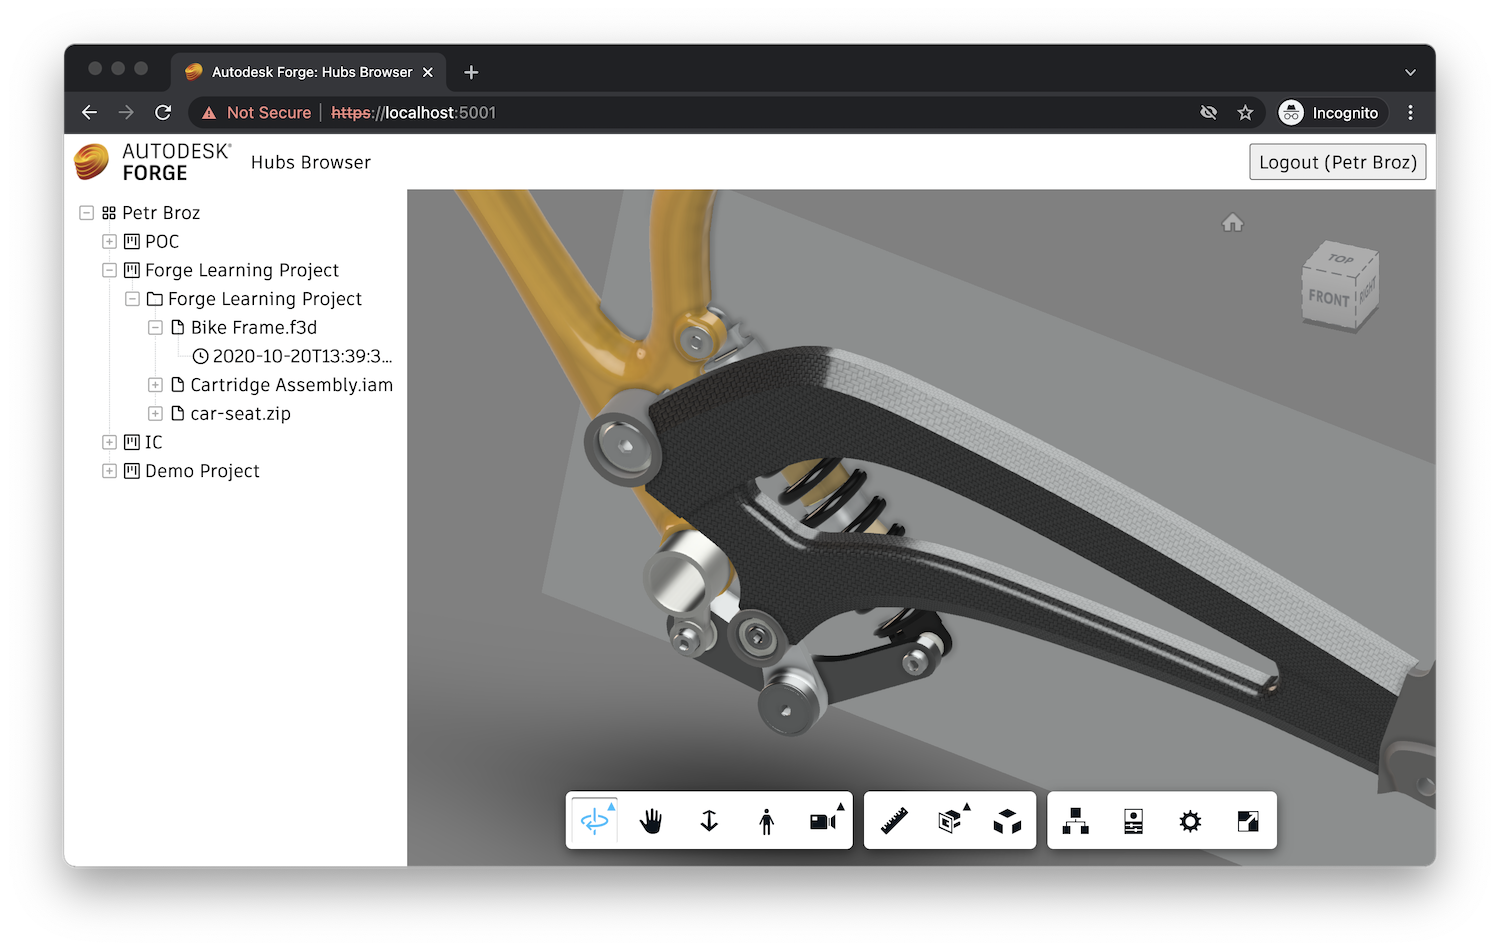
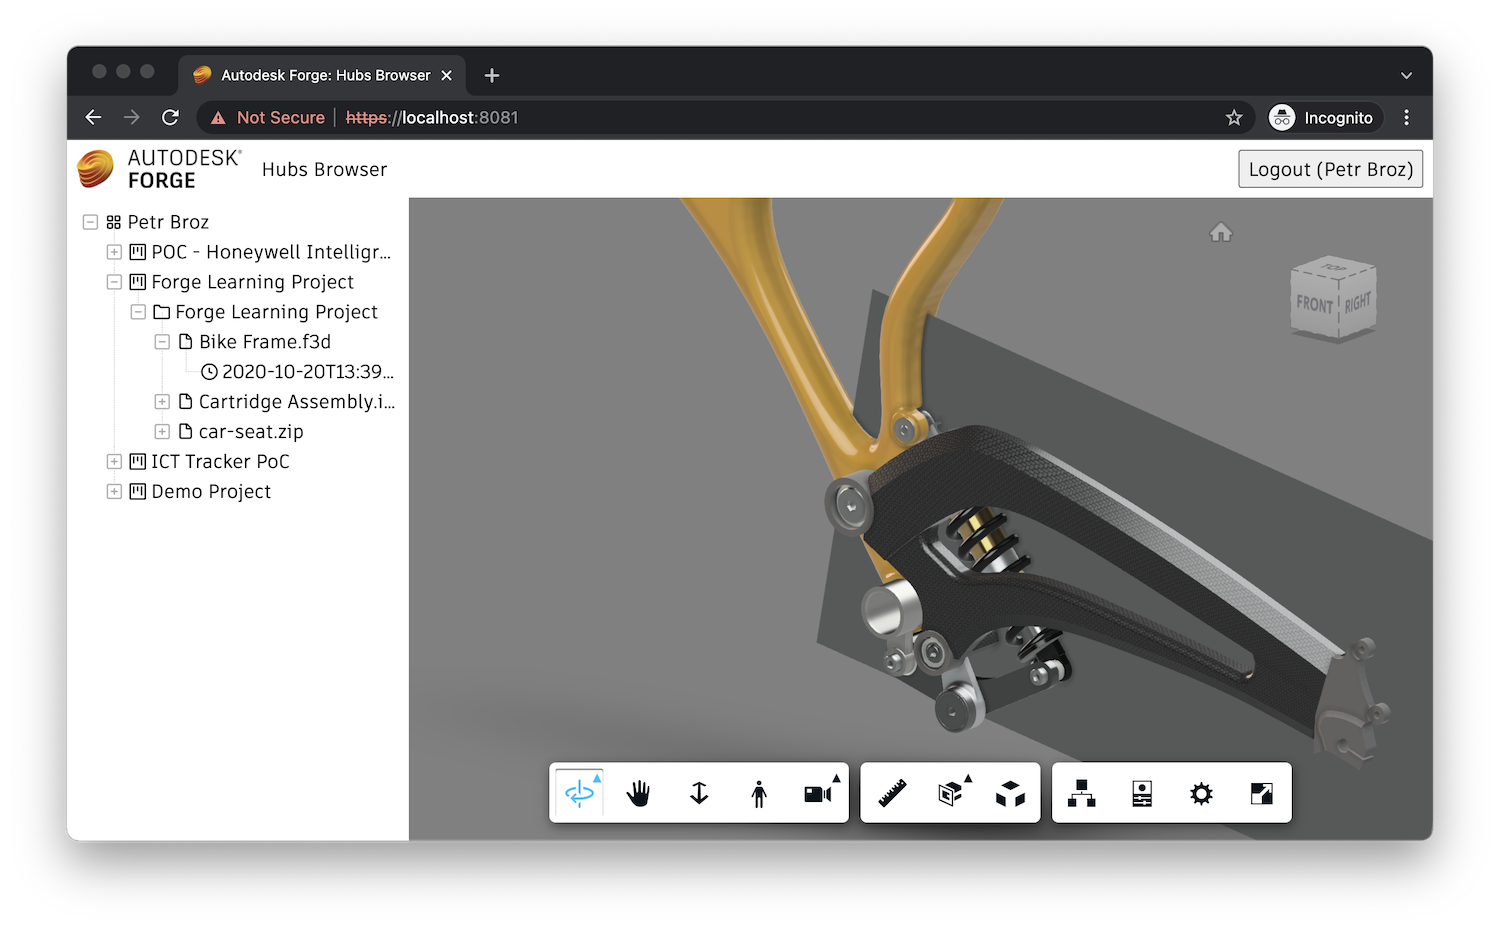
Updated HubsBrowser/.NET/VSCode tutorial.

Changed region(s): [[0.0307, 0.0312, 0.9813, 0.9365], [0.8587, 0.2497, 0.92, 0.3746], [0.0307, 0.8741, 0.0613, 0.9053]]

diff --git a/docs/tutorials/hubs-browser/dotnet-vscode/01-server.md b/docs/tutorials/hubs-browser/dotnet-vscode/01-server.md
@@ -46,7 +46,16 @@ Finally, let's create a couple more subfolders in your project folder that we're
 - `Models` - here we're going to keep all the server-side logic that can be shared by different endpoints
 - `wwwrooot` - this is where we're going to put all the client side assets (HTML, CSS, JavaScript, images, etc.)
 
-![Folder Structure](./folder-structure.png)
+## Application config
+
+When the `dotnet` utility bootstrapped your application, it generated random port numbers
+for its HTTP and HTTPS addresses. Let's change those to specific port numbers (8080 for HTTP,
+and 8081 for HTTPS) that we will use throughout this tutorial.
+
+Open the `launchSettings.json` file under the `Properties` folder, and set the `applicationUrl`
+property to `https://localhost:8081;http://localhost:8080`.
+
+![Launch Config](launch-config.png)
 
 ## Create a basic server
 
@@ -142,10 +151,10 @@ setup the required environment variables, `FORGE_CLIENT_ID`, `FORGE_CLIENT_SECRE
 ```bash
 export FORGE_CLIENT_ID=your-own-forge-client-id
 export FORGE_CLIENT_SECRET=your-own-forge-client-secret
-export FORGE_CALLBACK_URL=https://localhost:5001/api/auth/callback
+export FORGE_CALLBACK_URL=https://localhost:8081/api/auth/callback
 dotnet run
 ```
 
-When you navigate to [https://localhost:5001](https://localhost:5001) in your browser,
+When you navigate to [https://localhost:8081](https://localhost:8081) in your browser,
 you should get a 404 response because we haven't implemented any server logic yet.
-That's going to be the topic of the next step - [Authentication](./auth).
+That's going to be the goal of the next step.

diff --git a/docs/tutorials/hubs-browser/dotnet-vscode/02-auth.md b/docs/tutorials/hubs-browser/dotnet-vscode/02-auth.md
@@ -288,13 +288,13 @@ to load our designs
 
 Let's see if our new server endpoint works. Try setting the `FORGE_CLIENT_ID` and `FORGE_CLIENT_SECRET`
 environment variables to your own Forge app credentials, and set the `FORGE_CALLBACK_URL` env.
-variable to `https://localhost:5001/api/auth/callback` because that's where we implemented our
+variable to `https://localhost:8081/api/auth/callback` because that's where we implemented our
 code handling the callbacks from Forge:
 
 ```bash
 export FORGE_CLIENT_ID=your-own-forge-client-id
 export FORGE_CLIENT_SECRET=your-own-forge-client-secret
-export FORGE_CALLBACK_URL=https://localhost:5001/api/auth/callback
+export FORGE_CALLBACK_URL=https://localhost:8081/api/auth/callback
 dotnet run
 ```
 
@@ -303,7 +303,7 @@ The callback URL we specify here must match the callback URL that you've configu
 for your Forge application on https://forge.autodesk.com/myapps.
 :::
 
-When you navigate to [https://localhost:5001/api/auth/login](https://localhost:5001/api/auth/login)
+When you navigate to [https://localhost:8081/api/auth/login](https://localhost:8081/api/auth/login)
 in the browser, you should be redirected to Autodesk login page, and after logging in, you should
 be redirected back to your application, for now simply returning 404. This is expected as we haven't
 implemented the `GET /` endpoint yet. However, if you try and explore the cookies stored

diff --git a/docs/tutorials/hubs-browser/dotnet-vscode/03-hubs.md b/docs/tutorials/hubs-browser/dotnet-vscode/03-hubs.md
@@ -175,14 +175,14 @@ the required environment variables, and run the application:
 ```bash
 export FORGE_CLIENT_ID=your-own-forge-client-id
 export FORGE_CLIENT_SECRET=your-own-forge-client-secret
-export FORGE_CALLBACK_URL=https://localhost:5001/api/auth/callback
+export FORGE_CALLBACK_URL=https://localhost:8081/api/auth/callback
 dotnet run
 ```
 
 You should now be able to explore the new endpoints tha will eventually be used from
-the UI. For example, if you go to [https://localhost:5001/api/hubs](https://localhost:5001/api/hubs),
+the UI. For example, if you go to [https://localhost:8081/api/hubs](https://localhost:8081/api/hubs),
 the server should respond with a JSON list of all the hubs you have access to. Try copying the ID of
-one of the hubs, and use it in another address: https://localhost:5001/api/hubs/your-hub-id/projects.
+one of the hubs, and use it in another address: https://localhost:8081/api/hubs/your-hub-id/projects.
 In this case the server application should respond with a JSON list of all projects
 available under the specified hub.
 
